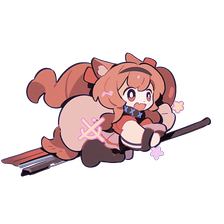
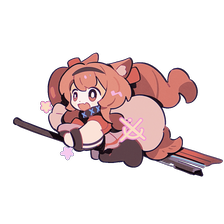
桌宠:走路按方向镜像素材 / 落地不立刻换动画 / 待机·趴着翻成往左走
素材朝向(见 docs §42):
- 「待机·趴着」五帧左右翻转 —— 它原来画的朝右,和别的动画不一致,现在统一成「往左走」
- 走路朝右时**在像素层把帧翻过来**:方向在**出发那一刻**定死(和「目标定死」同一个
  道理),走完落地 / 被拖走 / 关掉跟随开关三种中止都翻回默认朝向
- ⚠ **不能用 Slint 的 `transform-scale-x: -1`**:官方文档原话「Transforms are not
  available for the software renderer」,而桌宠要透明只能走软件渲染那条路 —— 写上去
  是一行很优雅的代码,渲染时什么都不发生
- `pet::mirror_rows` 是纯函数(每 4 字节一组、每行倒着抄),3 个单测:每行倒过来 /
  翻两次回原样 / alpha 一起搬;`PetFrames::frame_mirrored` 现做现缓存(第一次用到
  某个动画才翻那 5~8 帧 ≈1.6MB)。**不在素材上翻**:保持单源,仓库和 exe 不用
  撑大一倍,也不用改 build.rs 的帧表
- 三处「中止走路」收成一个 `abort_pet_walk()`(路线 / 目标中心 / 朝向一起清)

落地不立刻换动画(见 docs §40):
- 原来落地调 `back_to_idle()`:它把「住够时长」设成「现在」再轮换,表现是「刚走到
  就变脸」—— 走了一路的表情在你眼前被换掉,看着像卡了一下
- 改成 `hold_current_anim()`:接着播它当时那个,轮播往后推一个正常的待机时长(8~15 秒)
- 「住多久」只留一处算(`rotate_pet_idle` 和走完落地都调它),顺手删掉一行重复的
  文档注释

验收:106 个单测全过(103 老 + 3 新)。**像素算法有单测,但两条新行为都没眼验** ——
「走路朝右翻转」和「落地不立刻换动画」都要跑起来看,留给实际使用确认。

文档:docs 补 §40 一段 + §42,README(桌宠跟随那段)、CLAUDE.md(桌宠一节)同步。

Changed region(s): [[0.0, 0.2188, 1.0, 0.8125]]

diff --git a/src/main.rs b/src/main.rs
@@ -483,6 +483,11 @@ struct State {
     /// 走的时候把窗口摆到**这个宠物中心**(物理像素)。不在走就是 None ——
     /// 窗口几何只认这一个额外输入,其余仍然走原来那套「中心反推」
     pet_target_center: Cell<Option<(f32, f32)>>,
+    /// 这一帧要不要**左右镜像**(走路方向朝右时为真)。
+    ///
+    /// 素材画的都是「往左走」(头朝左),往右走时把帧翻过来才顺眼 ——
+    /// 方向在**出发那一刻**定死(和「目标定死」同一个道理),走完/中止就清掉。
+    pet_flip: Cell<bool>,
     /// 设置窗口里正在**试演**哪个动画(点了那一行的 ☰)。
     ///
     /// 设置页里没有缩略图,预览就是**真桌宠本人**:点一下 ☰,它当场按自己那条
@@ -1482,7 +1487,15 @@ impl State {
     fn push_pet_frame(&self) {
         let Some(pet) = self.pet.borrow().clone() else { return };
         let (anim, frame) = self.pet_anim.get();
-        if let Some(img) = self.pet_frames.frame(anim, frame) {
+        // 走路朝右时用镜像那一份(见 `pet_flip`)。翻不出来就退回原图。
+        let img = if self.pet_flip.get() {
+            self.pet_frames
+                .frame_mirrored(anim, frame)
+                .or_else(|| self.pet_frames.frame(anim, frame))
+        } else {
+            self.pet_frames.frame(anim, frame)
+        };
+        if let Some(img) = img {
             pet.global::<AppData>().set_pet_frame(img);
         }
     }
@@ -1596,12 +1609,17 @@ impl State {
         if let Some((walk, started)) = self.pet_walk.get() {
             let t = now.duration_since(started).as_secs_f32() / walk.secs.max(0.01);
             if t >= 1.0 {
-                // 最后一步落准(别差几像素),然后回待机轮播
+                // 最后一步落准(别差几像素),然后**接着住在这个动画里**。
+                //
+                // 这里原来调的是 `back_to_idle()`(落地立刻换一个待机动画),
+                // 表现是「刚走到就变脸」—— 走了一路的表情在你眼前被换掉,看着像卡了一下。
+                // 现在只是把轮播往后推一个正常的待机时长,那个动画接着播它的下一圈。
                 self.pet_target_center.set(Some(walk.to));
                 self.layout_pet_window_forced();
-                self.pet_walk.set(None);
-                self.pet_target_center.set(None);
-                self.back_to_idle();
+                // 站定了就回到素材本来的朝向(下一趟按新方向再决定翻不翻),
+                // 顺手补推一帧,不然要等下一个帧间隔才「翻回来」
+                self.abort_pet_walk();
+                self.hold_current_anim();
                 return;
             }
             self.pet_target_center.set(Some(pet::curve_point(&walk, t)));
@@ -1658,6 +1676,11 @@ impl State {
         let dir = next_rand(&mut seed);
         self.pet_rng.set(seed);
         let walk = pet::walk_curve(from, target, self.pet_follow_speed.get(), dir);
+
+        // 往哪边走 = 要不要把素材翻过来。**在出发那一刻定死**(和「目标定死」同一个
+        // 道理:半路鼠标再动也继续走原目标,朝向自然也不该中途变)。
+        // 素材画的都是「往左走」,所以只有朝右才翻。
+        self.pet_flip.set(target.0 > from.0);
 
         // 锁住当前动画:走路期间不轮换(照 rotate_pet_idle 末尾那套)。
         // 从头播一遍,看着像「起步」。
@@ -1798,12 +1821,11 @@ impl State {
         self.rotate_pet_idle();
     }
 
-    /// 随机换到另一个待机动画(不连着播同一个)。
     /// 换下一个待机动画。
     ///
     /// **按设置里的顺序一个个走**(顺序就是设置窗口里拖出来的那个),关掉的跳过,
     /// 走到末尾绕回开头 —— 想回到「随便播」的话,不拖它就行(顺序 = manifest 顺序)。
-    /// 顺序固定,但每个动画「住」多久仍然带随机抖动(`PET_IDLE_JITTER_MS`),
+    /// 顺序固定,但每个动画「住」多久仍然带随机抖动(见 `hold_current_anim`),
     /// 所以不会变成节拍器。
     fn rotate_pet_idle(&self) {
         // 「哪些算待机动画」由 `PetFrames::idle_names` 说了算(`idle-` 前缀那条规则
@@ -1818,12 +1840,33 @@ impl State {
         // 一个待机动画都没开(或者素材里就没有 idle):什么都别做,停在当前这个上
         let Some(next) = pet::next_in_cycle(&pool, current) else { return };
 
-        // 只摇一次,只剩「抖动」在用 —— 换哪个不再是随机
+        self.play_pet_anim(next);
+        self.hold_current_anim();
+    }
+
+    /// 中止「走过去」:路线、目标中心、朝向一起清掉。
+    ///
+    /// **朝向必须跟着清 + 补推一帧** —— 不清的话那个镜像的姿势会一直挂在宠物身上
+    /// (「走到一半被拖走,然后一直反着站」),补推一帧是因为下一次推帧可能还要等
+    /// 一个帧间隔(最长 250ms),肉眼能看出它还「反着」。
+    fn abort_pet_walk(&self) {
+        self.pet_walk.set(None);
+        self.pet_target_center.set(None);
+        if self.pet_flip.replace(false) {
+            self.push_pet_frame();
+        }
+    }
+
+    /// 让**当前这个**动画再住一会儿 —— 住够了 `pet_finished_loop` 才会轮到下一个。
+    ///
+    /// 「住多久」在这儿统一算(基础 `PET_IDLE_DWELL` + 一段随机抖动,免得变成节拍器),
+    /// 有两处要用它:
+    /// - `rotate_pet_idle` 换到新动画之后;
+    /// - 跟随走完一趟之后(见 `tick_pet_follow`)—— 落地别立刻换脸。
+    fn hold_current_anim(&self) {
         let mut seed = self.pet_rng.get();
         let jitter = next_rand(&mut seed) % PET_IDLE_JITTER_MS;
         self.pet_rng.set(seed);
-
-        self.play_pet_anim(next);
         self.pet_idle.set(true);
         self.pet_idle_until
             .set(Instant::now() + PET_IDLE_DWELL + Duration::from_millis(jitter));
@@ -1919,8 +1962,7 @@ impl State {
     fn pet_drag_begin(&self, mouse_x: f32, mouse_y: f32) {
         let Some(pet) = self.pet.borrow().clone() else { return };
         // 用户一上手就中止「跟随走路」—— 他要把宠物拖到别处,别跟它抢窗口
-        self.pet_walk.set(None);
-        self.pet_target_center.set(None);
+        self.abort_pet_walk();
         let pos = pet.window().position();
         let cursor0 = (pos.x + mouse_x.round() as i32, pos.y + mouse_y.round() as i32);
         self.pet_drag.set(Some((cursor0, (pos.x, pos.y))));
@@ -2831,8 +2873,7 @@ impl State {
         self.pet_follow.set(on);
         if !on {
             // 关掉的时候把正在走的那一趟也停掉,不然关完它还在半路上
-            self.pet_walk.set(None);
-            self.pet_target_center.set(None);
+            self.abort_pet_walk();
         }
         self.save();
         self.push_pet_settings(); // 勾选框和下面两根滑杆的灰态都要立刻回显
@@ -4087,6 +4128,7 @@ fn main() -> Result<(), slint::PlatformError> {
         pet_cursor_still: Cell::new(Instant::now()),
         pet_walk: Cell::new(None),
         pet_target_center: Cell::new(None),
+        pet_flip: Cell::new(false),
         pet_idle: Cell::new(true),
         pet_preview: RefCell::new(None),
         pet_idle_until: Cell::new(Instant::now()),

diff --git a/src/pet.rs b/src/pet.rs
@@ -21,6 +21,8 @@ include!(concat!(env!("OUT_DIR"), "/pet_frames.rs"));
 pub struct PetFrames {
     /// (每帧毫秒, 帧图)
     anims: Vec<(u64, Vec<slint::Image>)>,
+    /// 左右镜像过的帧。**用到哪个动画才现做**(见 `frame_mirrored`)
+    mirrored: std::cell::RefCell<std::collections::HashMap<usize, Vec<slint::Image>>>,
 }
 
 impl PetFrames {
@@ -41,7 +43,7 @@ impl PetFrames {
             }
             anims.push((anim.delay_ms, frames));
         }
-        Self { anims }
+        Self { anims, mirrored: Default::default() }
     }
 
     pub fn is_empty(&self) -> bool {
@@ -86,6 +88,69 @@ impl PetFrames {
         let (_, frames) = self.anims.get(anim)?;
         frames.get(frame % frames.len().max(1)).cloned()
     }
+
+    /// 同一个动画的**左右镜像版**那一帧(往右走的时候用,见 `State::pet_flip`)。
+    ///
+    /// 为什么在像素层翻、不用 Slint 的 `transform-scale-x: -1`:那套变换在**软件
+    /// 渲染器上不生效**(官方文档原话「Transforms are not available for the software
+    /// renderer」),而桌宠要透明就只能走软件渲染那条路 —— 写上去是一行,但那一行
+    /// 什么都不会发生。
+    ///
+    /// 代价可以接受:第一次用到某个动画时才现做(5~8 帧 × 224×224×4 ≈ 1.6MB),
+    /// 做完缓存住;走路本来就是低频事件。
+    pub fn frame_mirrored(&self, anim: usize, frame: usize) -> Option<slint::Image> {
+        if let Some(frames) = self.mirrored.borrow().get(&anim) {
+            return frames.get(frame % frames.len().max(1)).cloned();
+        }
+        let (_, src) = self.anims.get(anim)?;
+        let flipped: Vec<slint::Image> = src.iter().filter_map(mirror_image).collect();
+        if flipped.is_empty() {
+            return None; // 一张都翻不出来:让调用方退回原图,别画成空白
+        }
+        let out = flipped.get(frame % flipped.len()).cloned();
+        self.mirrored.borrow_mut().insert(anim, flipped);
+        out
+    }
+}
+
+/// 把一张图左右镜像。拿不到像素就给 `None`(调用方退回原图)。
+///
+/// `to_rgba8` / `from_rgba8` 都是**非预乘**的,配一对用不会有半透明边的问题
+/// (换成 `to_rgba8_premultiplied` 就会,边缘会发暗)。
+fn mirror_image(img: &slint::Image) -> Option<slint::Image> {
+    let src = img.to_rgba8()?;
+    let (w, h) = (src.width(), src.height());
+    let mut out = slint::SharedPixelBuffer::<slint::Rgba8Pixel>::new(w, h);
+    let mirrored = mirror_rows(src.as_bytes(), w, h);
+    // `make_mut_slice` 给的是 `&mut [Rgba8Pixel]`(没有按字节的可变视图),
+    // 所以逐像素搬 —— 一次也就 5 万像素,走路这种低频事件看不出来
+    for (i, px) in out.make_mut_slice().iter_mut().enumerate() {
+        let s = &mirrored[i * 4..i * 4 + 4];
+        *px = slint::Rgba8Pixel { r: s[0], g: s[1], b: s[2], a: s[3] };
+    }
+    Some(slint::Image::from_rgba8(out))
+}
+
+/// 把一块**行优先、每像素 4 字节**的像素左右翻转(纯函数,可单测)。
+///
+/// 行不动、每行内部倒过来 —— 表里像素是 `x` 最快的那一维,所以就是每 4 字节一组
+/// 倒着抄一遍。
+pub fn mirror_rows(src: &[u8], width: u32, height: u32) -> Vec<u8> {
+    let (w, h) = (width as usize, height as usize);
+    let stride = w * 4;
+    // 数据对不上就原样返回:宁可画一张没翻的图,也不能 panic 或者越界读
+    if w == 0 || h == 0 || src.len() < stride * h {
+        return src.to_vec();
+    }
+    let mut out = vec![0u8; stride * h];
+    for y in 0..h {
+        let row = &src[y * stride..(y + 1) * stride];
+        let dst = &mut out[y * stride..(y + 1) * stride];
+        for x in 0..w {
+            dst[(w - 1 - x) * 4..(w - 1 - x) * 4 + 4].copy_from_slice(&row[x * 4..x * 4 + 4]);
+        }
+    }
+    out
 }
 
 // ── 播放顺序与开关(纯逻辑,可单测) ────────────────────────────────────
@@ -377,6 +442,41 @@ mod tests {
         // 太近不会瞬移,太远不会走到天荒地老
         assert_eq!(walk_curve((0.0, 0.0), (5.0, 0.0), 1.0, 0).secs, WALK_MIN_SECS);
         assert_eq!(walk_curve((0.0, 0.0), (99999.0, 0.0), 0.25, 0).secs, WALK_MAX_SECS);
+    }
+
+    // ── 左右镜像(往右走时用的帧) ─────────────────────────────────────
+
+    /// 每行倒过来,行与行之间不动
+    #[test]
+    fn mirror_rows_flips_each_row() {
+        // 2×2,一个像素 4 字节;第 0 列全是 1、第 1 列全是 2,好认
+        let src = vec![
+            1, 1, 1, 1, 2, 2, 2, 2, //
+            3, 3, 3, 3, 4, 4, 4, 4,
+        ];
+        assert_eq!(
+            mirror_rows(&src, 2, 2),
+            vec![
+                2, 2, 2, 2, 1, 1, 1, 1, //
+                4, 4, 4, 4, 3, 3, 3, 3,
+            ]
+        );
+    }
+
+    /// 翻两次回到原样;数据长度对不上就原样返回(不 panic)
+    #[test]
+    fn mirror_rows_is_its_own_inverse() {
+        let src: Vec<u8> = (0..(3 * 2 * 4) as u8).collect();
+        assert_eq!(mirror_rows(&mirror_rows(&src, 3, 2), 3, 2), src);
+        assert_eq!(mirror_rows(&[7, 7, 7], 3, 2), vec![7, 7, 7], "长度不够原样返回");
+        assert_eq!(mirror_rows(&[], 0, 0), Vec::<u8>::new(), "空图不能炸");
+    }
+
+    /// 透明像素的 4 个字节(含 alpha)一起搬,不能只翻 RGB
+    #[test]
+    fn mirror_rows_keeps_alpha_in_place() {
+        let src = vec![10, 20, 30, 40, 50, 60, 70, 80];
+        assert_eq!(mirror_rows(&src, 2, 1), vec![50, 60, 70, 80, 10, 20, 30, 40]);
     }
 
     /// 跟随判定:缺省允许,记进 off 的才不允许

diff --git a/docs/calendar-reminders.md b/docs/calendar-reminders.md
@@ -2958,12 +2958,21 @@ let (cx, cy) = if let Some(target) = self.pet_target_center.get() {
 
 心跳挂在 `tick_pet`(40ms)里 `tick_pet_ring()` 之后:
 ① 光标和上一帧比,差超过 2px 就重置「静止计时」(手抖不算动);
-② 正在走 → 按 `t` 算下一个中心 → 摆窗口;到点 → 回待机轮播;
+② 正在走 → 按 `t` 算下一个中心 → 摆窗口;到点 → **留在当前动画里再住一轮**
+(不是立刻换 —— 见下面「走到之后别变脸」);
 ③ 没在走 → 静止够久 + 总开关开着 + 当前动画允许跟随 + 宠物不忙(没拖拽/没输入条/环没开/没气泡)
 + 目标离宠物中心超过 40px,才出发。出发时 `play_pet_anim(当前动画)` + `pet_idle_until`
 往后推,把轮播**锁住**不让它中途换人。
 
 **用户一拖就中止**(`pet_drag_begin` 里清掉走路的两个状态)—— 不跟人抢窗口。
+
+**走到之后别变脸。** 落地本来调的是 `back_to_idle()` —— 它把 `pet_idle_until` 设成「现在」
+再 `rotate_pet_idle()`,于是**宠物刚停稳就换了个动画**。走了一路的表情在你眼前被换掉,
+看着像卡了一下。现在落地只做 `hold_current_anim()`:接着播它当时那个,把轮播往后推
+一个正常的待机时长(8~15 秒),轮播自己会接着往下走。
+
+`hold_current_anim` 就是「让**当前这个**动画再住一会儿」,换动画之后(`rotate_pet_idle`)
+和走完一趟之后都调它 —— 「住多久」只在这一处算。
 
 ### 这一轮踩到的坑
 
@@ -3048,3 +3057,46 @@ let (cx, cy) = if let Some(target) = self.pet_target_center.get() {
 「时间没到就重播**当前**动画」—— 交互动画一插进来(加个任务 → 购物),被锁住循环的
 就变成购物了,能循环一个小时。改成**按状态判断**(`pet_preview` 有值就重播它指定的那个),
 和「锁某个时长」是两件事。
+
+## §42 走路朝右时把素材翻过来
+
+素材画的都是「往左走」(头朝左),往右走的时候看着像倒着飞。所以**走路方向朝右就左右镜像**。
+
+### 42.1 什么时候翻
+
+- 方向在**出发那一刻**定死(和「目标定死」同一个道理:半路鼠标再动也继续走原目标,
+  朝向自然也不该中途变) —— 判据是 `target.x > from.x`,两个都是宠物中心(物理像素);
+- **走完落地**、**被用户拖走**、**关掉跟随开关**:三种中止都翻回素材本来的朝向;
+- 只管走路那一段。站着、试演、点桌宠这些一律不动朝向。
+
+`State::pet_flip` 就是「这一帧要不要镜像」,`push_pet_frame` 按它挑
+`frame_mirrored` 还是 `frame`。三种中止收在一个 `abort_pet_walk()` 里
+(路线 / 目标中心 / 朝向一起清,朝向我顺手补推一帧,否则要等下一个帧间隔才「翻回来」)。
+
+### 42.2 在像素层翻,不用 Slint 的变换
+
+⚠ **`transform-scale-x: -1` 在这儿是空的**。Slint 文档里「Transforms」那一节原话:
+*Transforms are not available for the software renderer* —— 而桌宠要透明就只能走软件渲染
+那条路(`winit-skia-software`,见「渲染器」一节)。写上一行看着很优雅,渲染时什么都不发生。
+
+所以镜像在**像素层**做:
+
+| 东西 | 在哪 |
+|---|---|
+| `pet::mirror_rows(src, w, h)` | 纯函数(每 4 字节一组、每行倒着抄),**有单测**;长度对不上原样返回,不 panic |
+| `PetFrames::frame_mirrored(anim, frame)` | 现做现缓存(按动画下标)。第一次用到某个动画才翻那 5~8 帧(≈1.6MB) |
+| `mirror_image` | `to_rgba8()` → `mirror_rows` → `from_rgba8()` |
+
+**为什么不在素材上翻**:素材保持单源(一份 PNG),不用把仓库和 exe 都撑大一倍,
+也不用改 `build.rs` 那张帧表。
+
+**为什么不成对用预乘那张**:`to_rgba8()` / `from_rgba8()` 都是**非预乘**,配一对刚好;
+换成 `to_rgba8_premultiplied()` 的话再喂给非预乘的构造,半透明边缘会发暗。
+
+### 42.3 这一轮踩到的坑
+
+**坑 1:`SharedPixelBuffer` 没有按字节的可变视图。** `as_bytes()` 有,`as_mut_bytes()` 没有
+(编译期就报 no method),`make_mut_slice()` 给的是 `&mut [Rgba8Pixel]` —— 只能逐像素搬。
+
+**坑 2(上面那条,值得单列):Slint 的变换在软件渲染下是空操作。** 以后凡是想「翻转 / 缩放
+一个元素」,先想想渲染器:我们这条路上只有像素层靠得住。

diff --git a/CLAUDE.md b/CLAUDE.md
@@ -47,6 +47,10 @@ cargo test --release model::tests::badge_shows_overdue_and_relative_days
 - **跟随鼠标**(§40)挪窗口走的是 `layout_pet_window` 那条老路,只是多了一个
   `pet_target_center` 入口。⚠ 走路**必须调 `layout_pet_window_forced()`** ——
   尺寸不变,普通那条会被「没变就别动」的短路整个吞掉。
+- 走路朝右时素材**在像素层左右镜像**(§42):`State::pet_flip` + `PetFrames::frame_mirrored`。
+  ⚠ 别改用 Slint 的 `transform-scale-x: -1` —— 那套变换在**软件渲染器上是空操作**
+  (官方文档明说),而桌宠要透明只能走软件渲染。三种中止(走完 / 被拖走 / 关开关)
+  统一走 `abort_pet_walk()`。
 
 - 让 AI 驱动运行中的界面做回归:
   `SLINT_EMIT_DEBUG_INFO=1 cargo build --features slint/mcp`,
